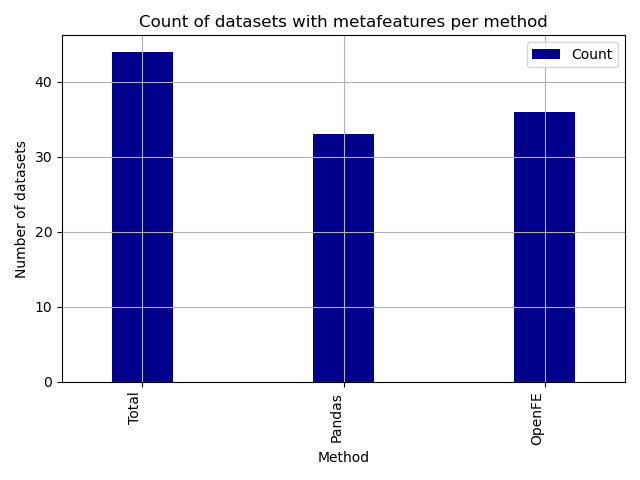
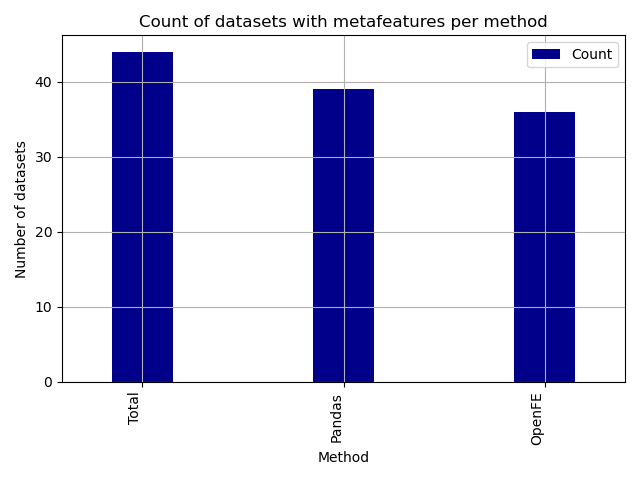
Change name to MetaFE

Changed region(s): [[0.4688, 0.1875, 0.5938, 0.2812]]

diff --git a/src/Result_Analysis/test_analysis/test_analysis.py b/src/Result_Analysis/test_analysis/test_analysis.py
@@ -101,13 +101,7 @@ def make_latex_tables_split(df_pivot, without_openfe, columns_per_table=6):
         latex_lines.append(r"    \footnotesize")
 
         column_format = "c|" + "c" * len(current_columns)
-        if without_openfe:
-            latex_lines.append(fr"    \begin{{tabular*}}{{\textwidth}}{{@{{\extracolsep{{0.2em}}}} {column_format} @{{}}}}")
-        else:
-            if table_idx == total_tables - 1:
-                latex_lines.append(fr"    \begin{{tabular*}}{{\textwidth}}{{@{{\extracolsep{{-0.5em}}}} {column_format} @{{}}}}")
-            else:
-                latex_lines.append(fr"    \begin{{tabular*}}{{\textwidth}}{{@{{\extracolsep{{0.2em}}}} {column_format} @{{}}}}")
+        latex_lines.append(fr"    \begin{{tabular*}}{{\textwidth}}{{@{{\extracolsep{{0.2em}}}} {column_format} @{{}}}}")
         latex_lines.append(r"        \toprule")
 
         header_cells = ["Dataset"]
@@ -134,6 +128,56 @@ def make_latex_tables_split(df_pivot, without_openfe, columns_per_table=6):
 
         print("\n".join(latex_lines))
 
+
+def make_latex_tables_as_one(df_pivot, without_openfe, columns_per_table=6):
+    from math import ceil
+
+    formatted_df = df_pivot.applymap(lambda x: f"{x:.2f}" if pd.notnull(x) else "/")
+    method_columns = df_pivot.columns.tolist()
+    total_tables = ceil(len(method_columns) / columns_per_table)
+
+    base_caption = "Test error of the model on the feature-engineered datasets..."
+    label = "tab:test_without_openfe" if without_openfe else "tab:test_with_openfe"
+
+    for table_idx in range(total_tables):
+        start_col = table_idx * columns_per_table
+        end_col = min(start_col + columns_per_table, len(method_columns))
+        current_columns = method_columns[start_col:end_col]
+
+        latex_lines = []
+        latex_lines.append(r"\begin{table}[h!]")
+        latex_lines.append(r"    \footnotesize")
+
+        column_format = "c|" + "c" * len(current_columns)
+        latex_lines.append(fr"    \begin{{tabular*}}{{\textwidth}}{{@{{\extracolsep{{0.2em}}}} {column_format} @{{}}}}")
+        latex_lines.append(r"        \toprule")
+
+        header_cells = ["Dataset"]
+        for col in current_columns:
+            escaped_col = col.replace(", ", ",\\\\").replace(" ", "\\\\")
+            header_cells.append(f"\\makecell{{{escaped_col}}}")
+        latex_lines.append("        " + " & ".join(header_cells) + r" \\")
+        latex_lines.append(r"        \midrule")
+
+        for dataset_id, row in formatted_df.iterrows():
+            values = [row[col] for col in current_columns]
+            row_str = f"        {dataset_id} & " + " & ".join(values) + r" \\"
+            latex_lines.append(row_str)
+
+        latex_lines.append(r"        \bottomrule")
+        latex_lines.append(r"    \end{tabular*}")
+
+        if table_idx == 0:
+            latex_lines.append(fr"    \caption{{{base_caption}}}")
+            latex_lines.append(fr"    \label{{{label}}}")
+        else:
+            latex_lines.append(r"    \ContinuedFloat")
+            latex_lines.append(fr"    \caption*{{{base_caption} (cont.)}}")
+
+        latex_lines.append(r"\end{table}")
+        latex_lines.append("")
+
+        print("\n".join(latex_lines))
 
 
 def get_data(result_files):
@@ -173,14 +217,23 @@ def get_data(result_files):
 
 
 def plot_score_graph(dataset_list_wrapped, df_pivot, name):
-    if "only_pandas" in name or "openfe_pandas" in name:
+    if "only_pandas" in name:
         score_type = name.split("_")[0]
         if score_type == "Val":
             score_type = "validation"
         else:
             score_type = "test"
+        without_openfe = True
         large_plot = False
-        without_openfe = False
+    elif "openfe_pandas" in name:
+        score_type = name.split("_")[0]
+        if score_type == "Val":
+            score_type = "validation"
+        else:
+            score_type = "test"
+        df_pivot.rename(columns={"Pandas, recursive SM": "MetaFE"}, inplace=True)
+        without_openfe = True
+        large_plot = False
     elif "without_OpenFE" in name:
         score_type = name.split("_")[0]
         if score_type == "Val":
@@ -190,8 +243,6 @@ def plot_score_graph(dataset_list_wrapped, df_pivot, name):
         large_plot = True
         without_openfe = True
         df_pivot = df_pivot.drop(columns=["OpenFE"])
-        if score_type == "test":
-            make_latex_tables_split(df_pivot, without_openfe)
     else:
         if name == "Val":
             score_type = "validation"
@@ -202,7 +253,7 @@ def plot_score_graph(dataset_list_wrapped, df_pivot, name):
         column_to_move = df_pivot.pop("OpenFE")
         df_pivot.insert(len(df_pivot.columns), "OpenFE", column_to_move)
         if score_type == "test":
-            make_latex_tables_split(df_pivot, without_openfe)
+            make_latex_tables_as_one(df_pivot, without_openfe)
     if without_openfe:
         colors = cm.get_cmap('nipy_spectral')
         color_list = [colors(i) for i in np.linspace(0, 0.95, len(df_pivot.columns))]
@@ -253,12 +304,22 @@ def plot_count_best(df_pivot_val, df_pivot_test, name):
 
 
 def plot_avg_percentage_impr(baseline_col, df_pivot, name, only_pandas=False):
-    if "only_pandas" in name or "openfe_pandas" in name:
+    if "only_pandas" in name:
         score_type = name.split("_")[0]
         if score_type == "Val":
             score_type = "validation"
         else:
             score_type = "test"
+    elif "openfe_pandas" in name:
+        score_type = name.split("_")[0]
+        if score_type == "Val":
+            score_type = "validation"
+        else:
+            score_type = "test"
+        try:
+            df_pivot.rename(columns={"Pandas, recursive SM": "MetaFE"}, inplace=True)
+        except KeyError:
+            print("")
     elif "without_OpenFE" in name:
         score_type = name.split("_")[0]
         if score_type == "Val":
@@ -305,12 +366,19 @@ def plot_avg_percentage_impr(baseline_col, df_pivot, name, only_pandas=False):
 
 
 def plot_boxplot_percentage_impr(baseline_col, df_pivot, name):
-    if "only_pandas" in name or "openfe_pandas" in name:
+    if "only_pandas" in name:
         score_type = name.split("_")[0]
         if score_type == "Val":
             score_type = "validation"
         else:
             score_type = "test"
+    elif "openfe_pandas" in name:
+        score_type = name.split("_")[0]
+        if score_type == "Val":
+            score_type = "validation"
+        else:
+            score_type = "test"
+        df_pivot.rename(columns={"Pandas, recursive SM": "MetaFE"}, inplace=True)
     elif "without_OpenFE" in name:
         score_type = name.split("_")[0]
         if score_type == "Val":
@@ -406,8 +474,8 @@ def test_analysis():
     plot_boxplot_percentage_impr(baseline_col, df_pivot_test_openfe, "Test_openfe_pandas")
 
     # Drop everything but pandas columns to compare SM approaches
-    df_pivot_val_openfe = df_pivot_val_openfe[["OpenFE", "Pandas, recursive SM"]]
-    df_pivot_test_openfe = df_pivot_test_openfe[["OpenFE", "Pandas, recursive SM"]]
+    df_pivot_val_openfe = df_pivot_val_openfe[["OpenFE", "MetaFE"]]
+    df_pivot_test_openfe = df_pivot_test_openfe[["OpenFE", "MetaFE"]]
     # Plot again
     plot_count_best(df_pivot_val_openfe, df_pivot_test_openfe, "openfe_pandas_")
     plot_score_graph(dataset_list_wrapped, df_pivot_val_openfe, "Val_openfe_pandas")

diff --git a/src/Result_Analysis/robustness/read_unique_datasets_in_mfe_matrices.py b/src/Result_Analysis/robustness/read_unique_datasets_in_mfe_matrices.py
@@ -25,13 +25,16 @@ def main():
         datasets = dataset["dataset - id"].unique()
         print(file)
         print(datasets)
-        print(len(datasets))
+        count = len(datasets)
+        print(count)
         method = file.split("/")[-1].split("_Matrix")[0]
         if method == "Core":
             method = "Total"
         elif method == "MFE_General":
             method = "MFE"
-        new_row = pd.DataFrame([{"Method": method, "Count": len(datasets)}])
+        if method == "Pandas":
+            count = 39
+        new_row = pd.DataFrame([{"Method": method, "Count": count}])
         df = pd.concat([df, new_row], ignore_index=True)
     new_row = pd.DataFrame([{"Method": "OpenFE", "Count": 36}])
     df_openfe = pd.concat([df, new_row], ignore_index=True)
